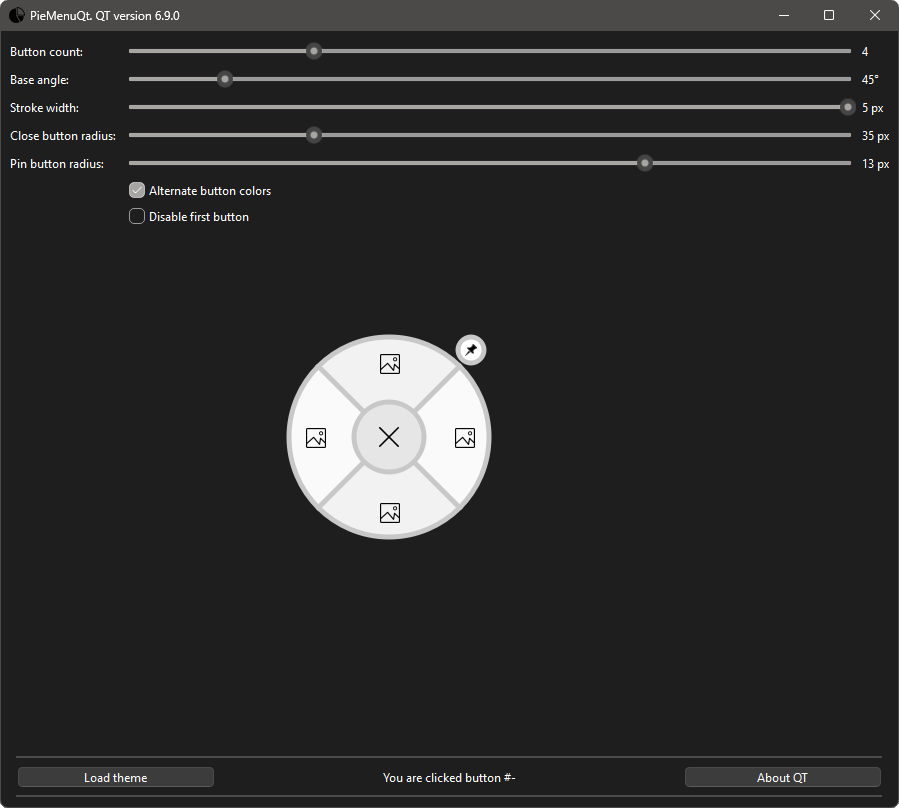
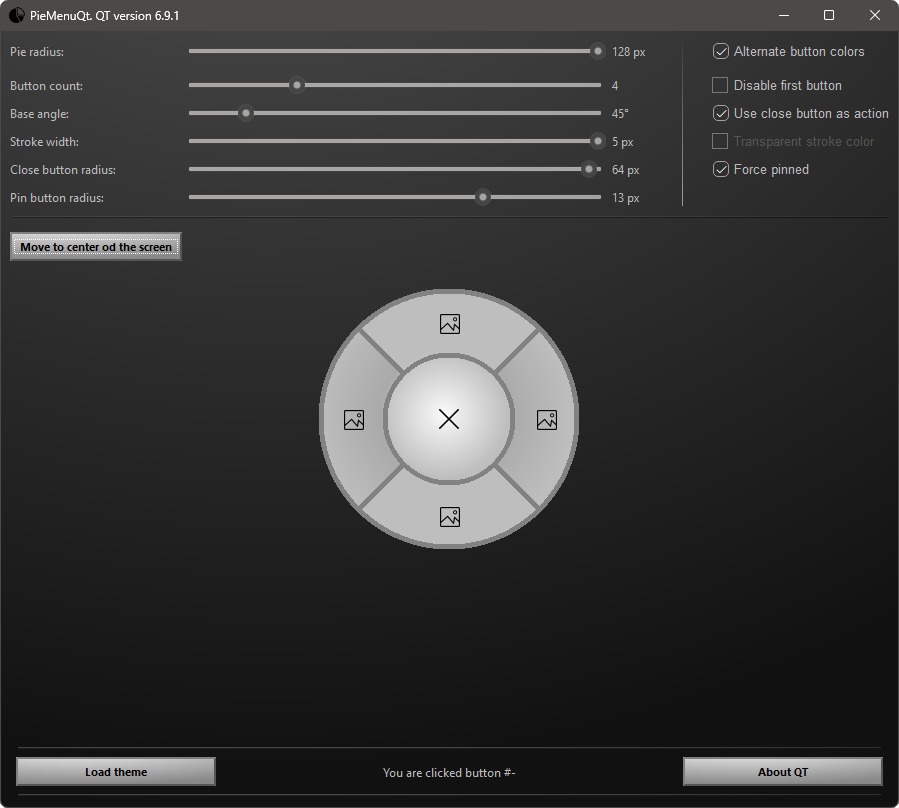
add scrennshots

Changed region(s): [[0.0, 0.0309, 0.9967, 0.3403], [0.3115, 0.3403, 0.6541, 0.6807], [0.0, 0.9282, 0.9967, 0.9901]]

diff --git a/MainWindow.cpp b/MainWindow.cpp
@@ -172,3 +172,9 @@ void MainWindow::on_loadTheme_clicked()
     loadTheme(QFile(filename));
 }
 
+
+void MainWindow::on_centerButton_clicked() {
+    pie_menu->move(this->geometry().width() / 2 - pie_menu->geometry().width() / 2,
+                   this->geometry().height() / 2 - pie_menu->geometry().height() / 2);
+}
+

diff --git a/MainWindow.h b/MainWindow.h
@@ -55,5 +55,6 @@ protected:
     PieMenu *pie_menu = nullptr;
 private slots:
     void on_loadTheme_clicked();
+    void on_centerButton_clicked();
 };
 #endif // MAINWINDOW_H
